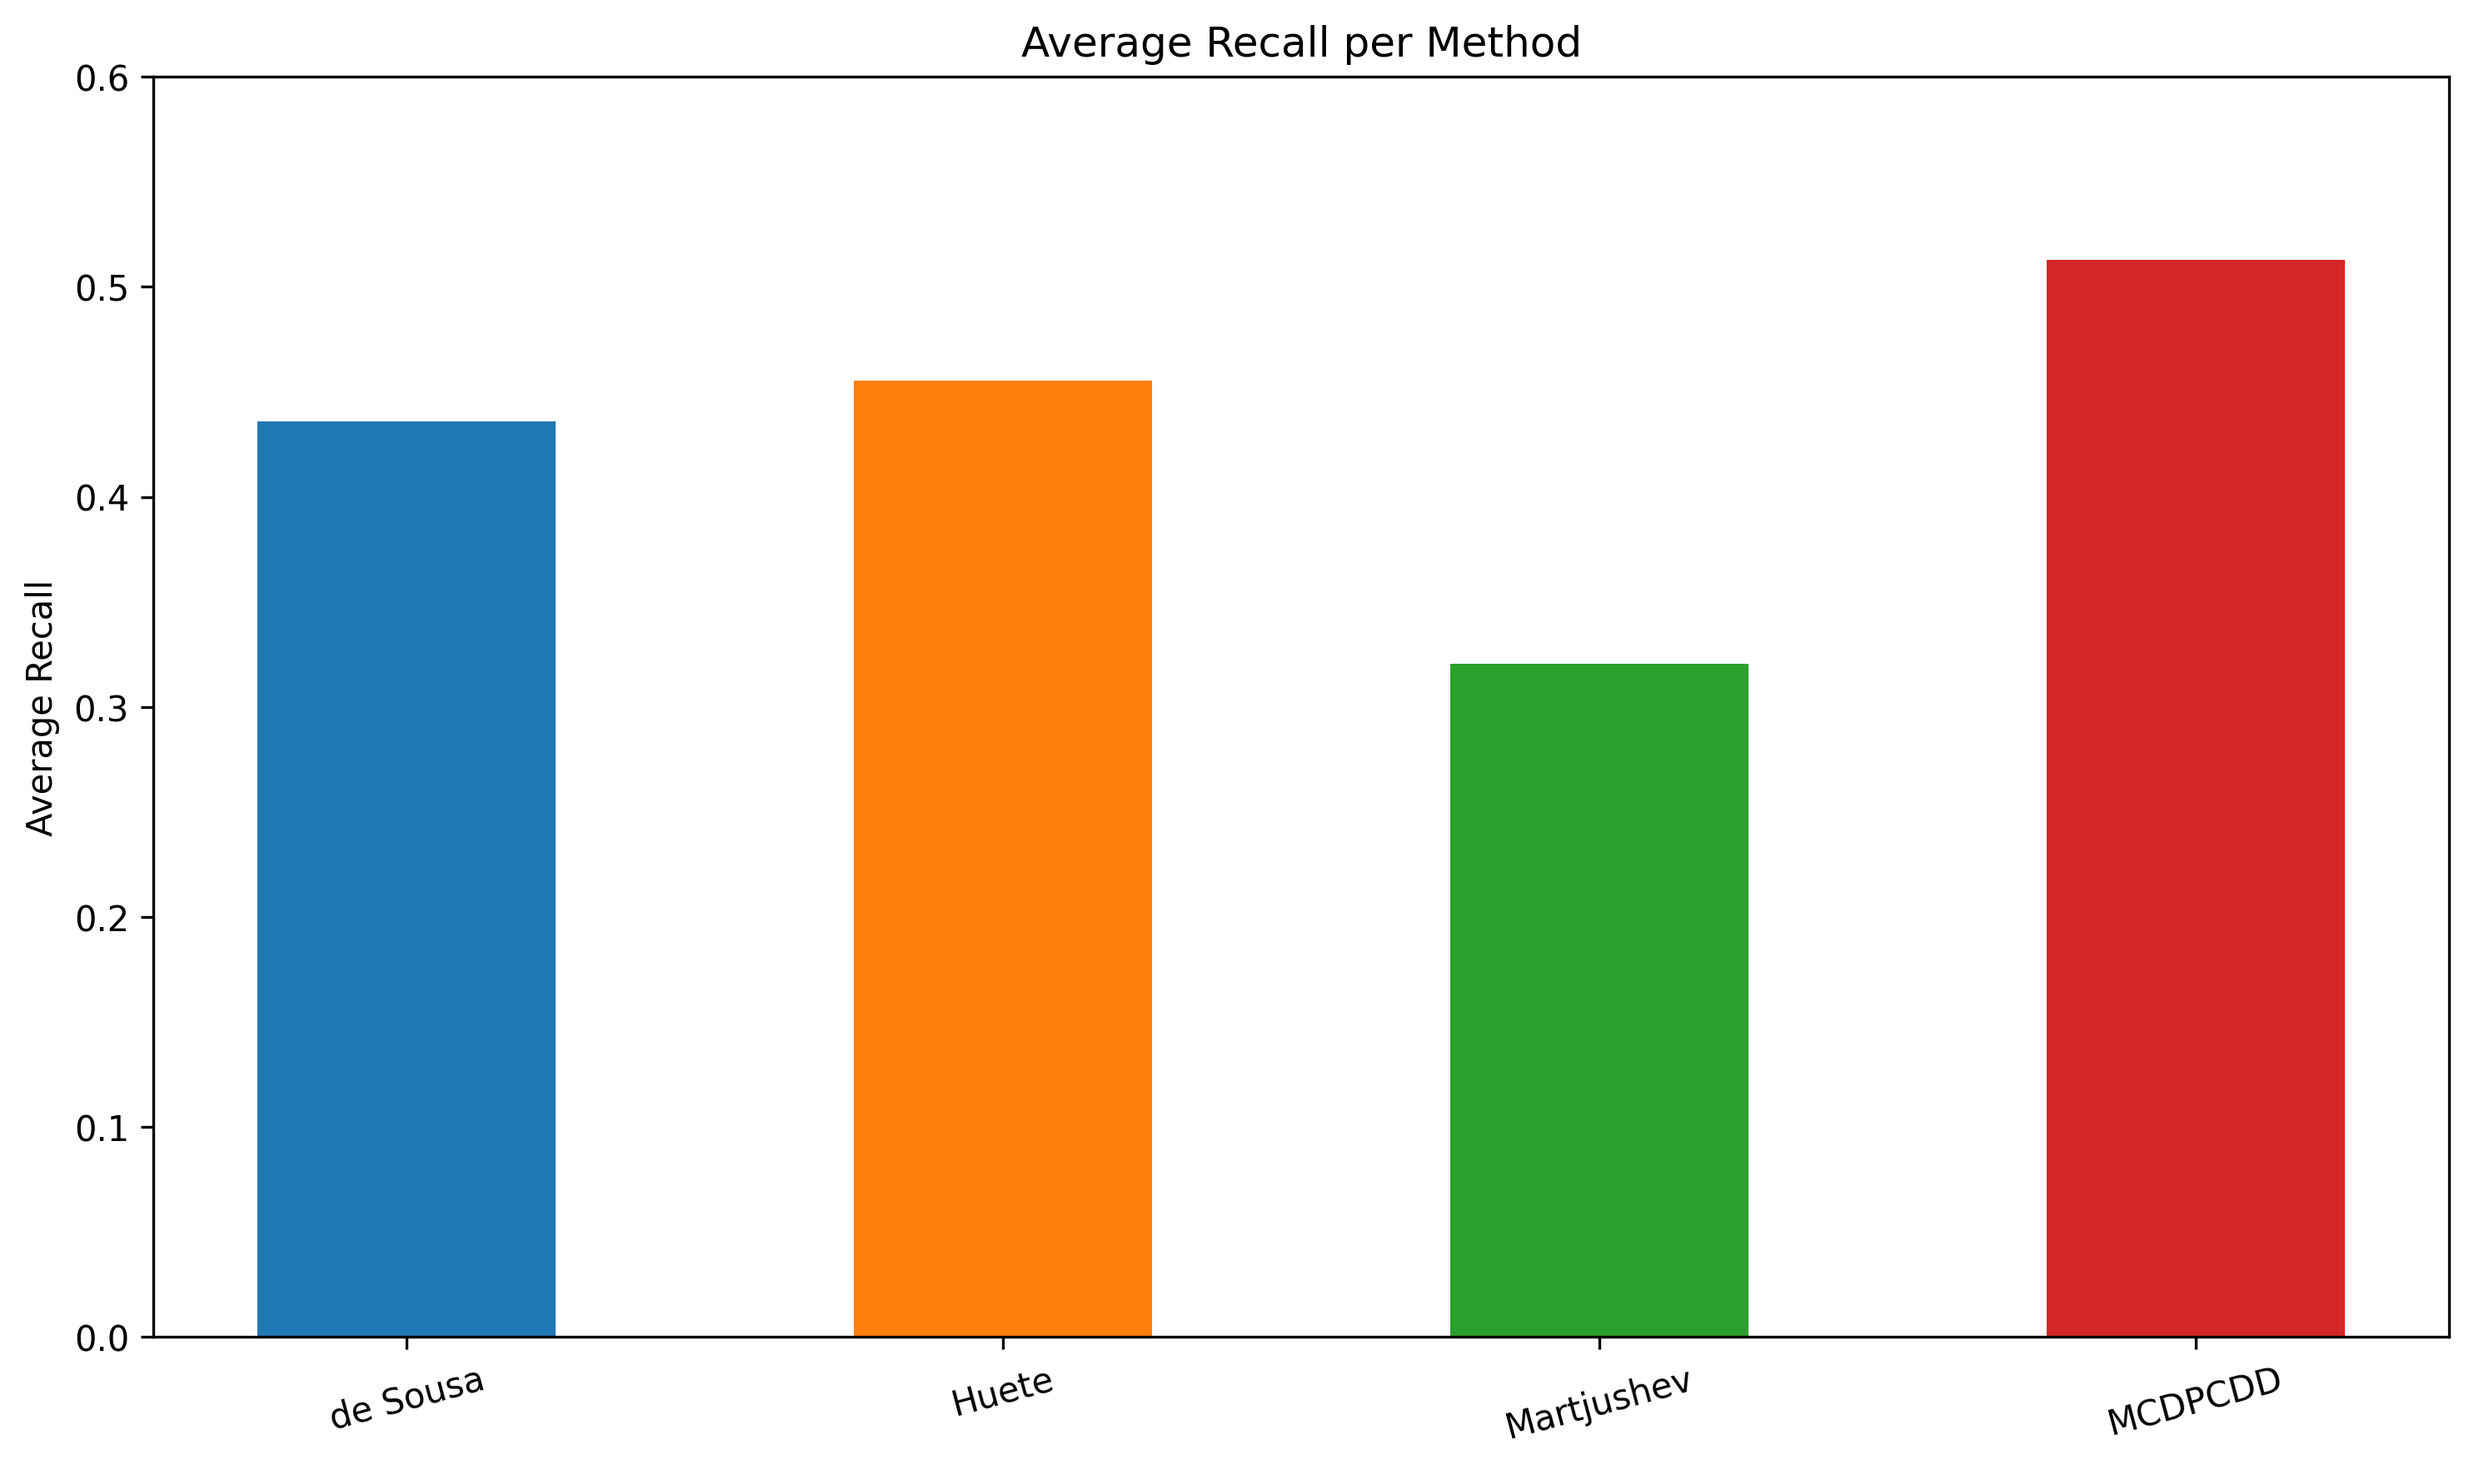
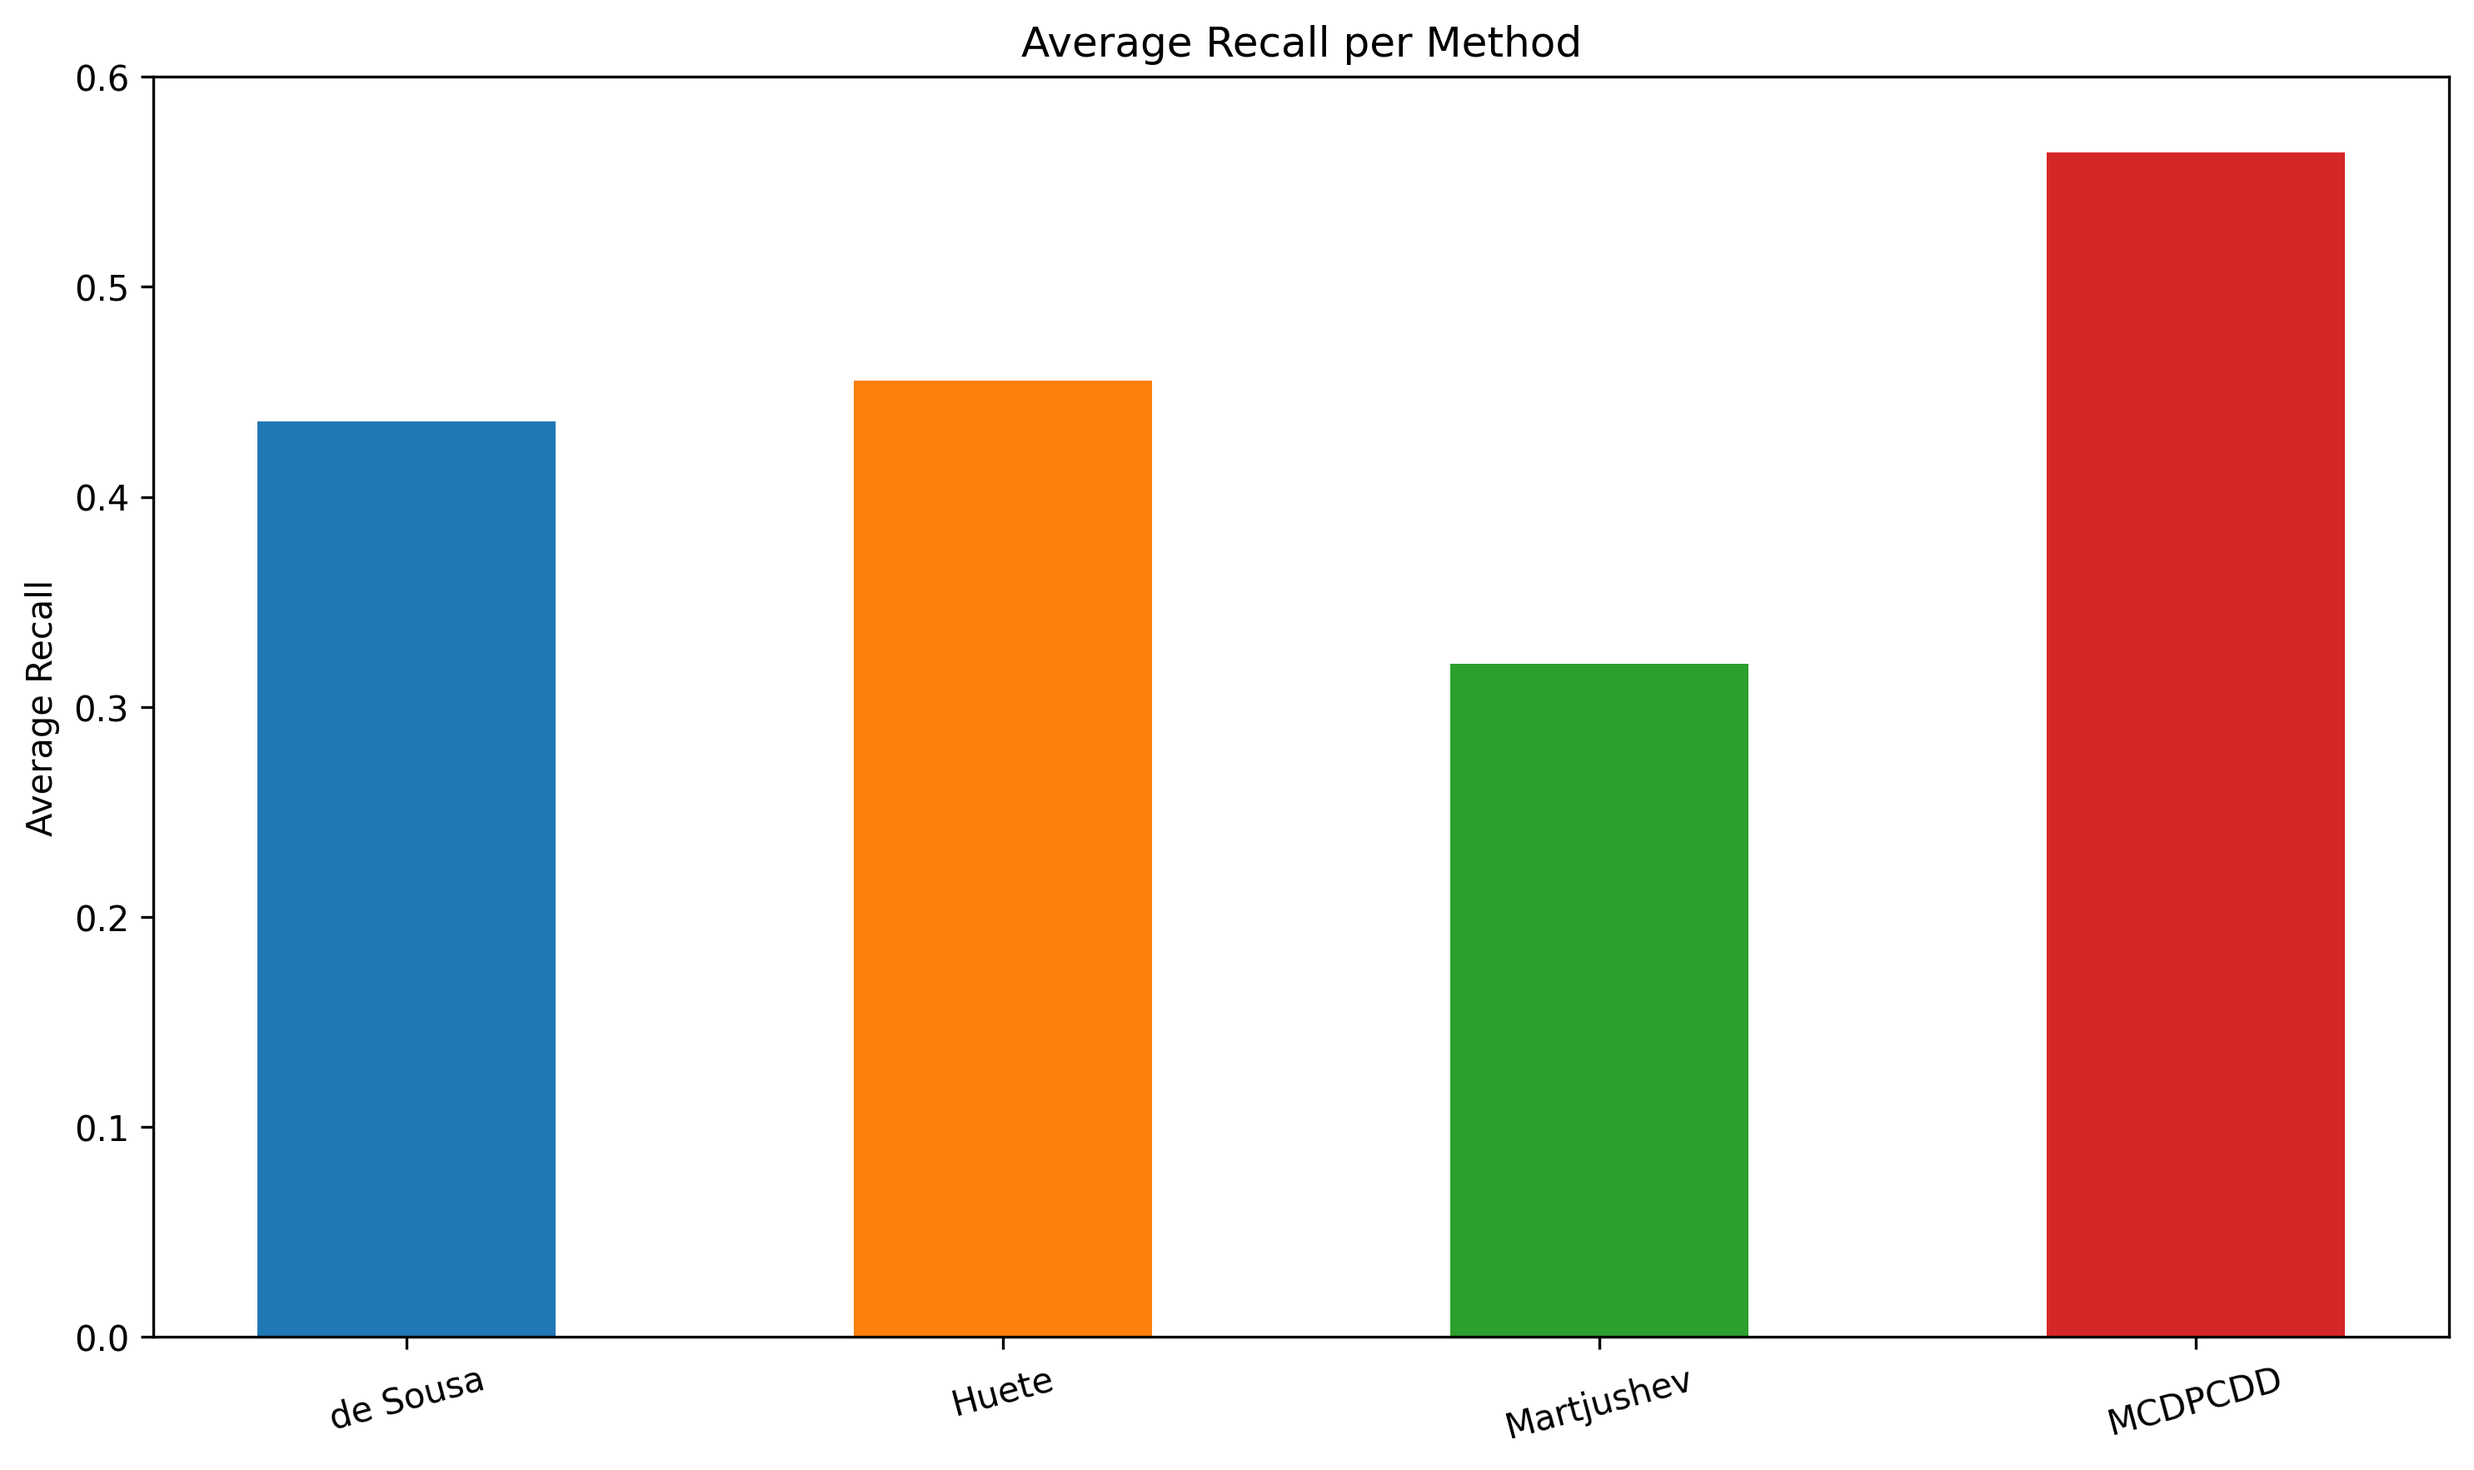
Parameter Sensitivity Experiment
-Added some additional code that allows for easy parameter sensitivity experimentation. Also discovered new slightly better parameter settings for the proposed method

Changed region(s): [[0.8054, 0.0935, 0.9603, 0.187]]

diff --git a/Evaluation/EvaluatePerformance.py b/Evaluation/EvaluatePerformance.py
@@ -2,6 +2,8 @@
 import numpy as np
 import matplotlib.pyplot as plt
 
+import json
+
 #Actual drift locations, coupling the file name with the trace numbers
 actualDriftCoords = {
     "Simple_1.xes" : [1000],
@@ -621,8 +623,11 @@ MCDPCDDCoords = {
     "Difficult_2.xes" : [82, 189, 354, 515, 616, 822],
     "Difficult_3.xes" : [175, 473, 1041, 1286, 1678],
     "Difficult_4.xes" : [850],
-    "BPIC2015Merged.xes" : [6, 15, 28, 39, 47, 58, 67, 79, 89, 101, 110, 124, 132, 142, 151, 159, 174, 183, 192, 205, 215, 228, 237, 247, 261, 270, 301, 309, 335, 346, 362, 389, 415, 461, 491, 518, 556, 585, 608, 629, 644, 662, 679, 695, 716, 727, 746, 771, 787, 802, 824, 843, 862, 883, 906, 918, 931, 944, 960, 982, 1006, 1019, 1034, 1049, 1068, 1082, 1109, 1125, 1150, 1162, 1171, 1189, 1209, 1259, 1281, 1299, 1330, 1343, 1361, 1372, 1387, 1421, 1433, 1451, 1465, 1496, 1511, 1523, 1535, 1548, 1573, 1584, 1596, 1624, 1636, 1647, 1664, 1690, 1706, 1718, 1756, 1778, 1801, 1831, 1873, 1886, 1901, 1916, 1928, 1959, 1976, 1989, 2008, 2026, 2049, 2062, 2128, 2170, 2189, 2201, 2226, 2239, 2258, 2280, 2292, 2316, 2328, 2345, 2357, 2380, 2396, 2408, 2425, 2435, 2472, 2488, 2530, 2547, 2562, 2594, 2618, 2633, 2644, 2664, 2691, 2707, 2720, 2733, 2777, 2812, 2825, 2835, 2845, 2879, 2901, 2919, 2930, 2955, 2988, 3007, 3022, 3035, 3070, 3082, 3103, 3114, 3131, 3168, 3179, 3229, 3237, 3256, 3276, 3314, 3328, 3340, 3351, 3373, 3383, 3405, 3420, 3436, 3459, 3504, 3512, 3552, 3567, 3585, 3600, 3613, 3624, 3655, 3688, 3698, 3720, 3744, 3780, 3804, 3814, 3834, 3851, 3868, 3883, 3897, 3906, 3920, 3947, 3960, 3979, 3990, 3999, 4011, 4036, 4049, 4059, 4074, 4092, 4102, 4120, 4146, 4155, 4172, 4185, 4197, 4206, 4216, 4240, 4259, 4272, 4314, 4323, 4333, 4346, 4357, 4370, 4387, 4398, 4407]
+    "BPIC2015Merged.xes" : [10, 20, 30, 43, 52, 64, 73, 89, 100, 109, 119, 132, 146, 159, 177, 195, 229, 246, 268, 282, 304, 313, 327, 335, 351, 377, 395, 412, 460, 483, 498, 519, 537, 563, 610, 627, 657, 697, 716, 731, 749, 765, 780, 791, 821, 836, 851, 868, 881, 895, 914, 935, 954, 966, 982, 1007, 1020, 1042, 1058, 1073, 1083, 1120, 1140, 1155, 1166, 1188, 1201, 1213, 1245, 1265, 1282, 1306, 1320, 1335, 1347, 1363, 1376, 1395, 1419, 1432, 1455, 1470, 1523, 1539, 1557, 1576, 1592, 1607, 1624, 1637, 1658, 1690, 1710, 1726, 1740, 1753, 1778, 1814, 1861, 1878, 1892, 1905, 1920, 1938, 1951, 1989, 2008, 2028, 2050, 2124, 2143, 2157, 2179, 2193, 2215, 2230, 2245, 2260, 2278, 2294, 2310, 2329, 2354, 2396, 2407, 2419, 2429, 2443, 2475, 2487, 2509, 2529, 2553, 2578, 2594, 2612, 2655, 2667, 2687, 2715, 2735, 2769, 2796, 2815, 2858, 2876, 2919, 2950, 2969, 2991, 3007, 3017, 3037, 3066, 3077, 3095, 3119, 3151, 3171, 3191, 3201, 3212, 3229, 3237, 3256, 3278, 3287, 3308, 3319, 3333, 3344, 3365, 3386, 3396, 3405, 3418, 3430, 3441, 3461, 3477, 3505, 3514, 3526, 3553, 3567, 3597, 3621, 3639, 3655, 3669, 3695, 3706, 3723, 3741, 3755, 3770, 3779, 3792, 3803, 3814, 3834, 3844, 3856, 3866, 3874, 3899, 3923, 3934, 3947, 3956, 3966, 3983, 3993, 4000, 4018, 4034, 4048, 4062, 4082, 4096, 4104, 4119, 4129, 4148, 4169, 4183, 4197, 4219, 4244, 4261, 4272, 4305, 4317, 4326, 4348, 4362, 4371, 4381, 4391, 4401, 4415]
 }
+
+with open("Evaluation/ParamSensResults.json", "r") as f:
+    ParamSens = json.load(f)
 
 
 EvaluatePerformance(
@@ -630,7 +635,7 @@ EvaluatePerformance(
         deSousaCoords,
         hueteCoords,
         martjushevCoords,
-        MCDPCDDCoords],
+        ParamSens],
     method_names=[
         "de Sousa",
         "Huete",

diff --git a/Framework/main.py b/Framework/main.py
@@ -13,6 +13,8 @@ from encoder import Encoder
 from comparator import Comparator
 from detector import Detector
 
+import json
+import subprocess
 
 def main(config_file, seed=1111, device='cpu'):
 
@@ -38,6 +40,7 @@ def main(config_file, seed=1111, device='cpu'):
         trace_map[prefix] = tf
 
     # ---------------- LOOP OVER DATASETS ----------------
+    evaluation_results = {}
     for df in dataset_files:
 
         prefix = df.replace('.npy', '')
@@ -166,6 +169,34 @@ def main(config_file, seed=1111, device='cpu'):
 
         print(f"Detected drift trace IDs for {prefix}: {drift_Trace_IDs}")
 
+        # Convert dataset filename to evaluation filename
+        evaluation_results[f"{prefix}.xes"] = drift_Trace_IDs
+
+    # ==========================================================
+    # Save evaluation results
+    # ==========================================================
+
+    os.makedirs("Evaluation", exist_ok=True)
+
+    # Keep BPIC2015 fixed because it is not rerun
+    if "BPIC2015Merged.xes" not in evaluation_results:
+        evaluation_results["BPIC2015Merged.xes"] = [6, 15, 28, 39, 47, 58, 67, 79, 89, 101, 110, 124, 132, 142, 151, 159, 174, 183, 192, 205, 215, 228, 237, 247, 261, 270, 301, 309, 335, 346, 362, 389, 415, 461, 491, 518, 556, 585, 608, 629, 644, 662, 679, 695, 716, 727, 746, 771, 787, 802, 824, 843, 862, 883, 906, 918, 931, 944, 960, 982, 1006, 1019, 1034, 1049, 1068, 1082, 1109, 1125, 1150, 1162, 1171, 1189, 1209, 1259, 1281, 1299, 1330, 1343, 1361, 1372, 1387, 1421, 1433, 1451, 1465, 1496, 1511, 1523, 1535, 1548, 1573, 1584, 1596, 1624, 1636, 1647, 1664, 1690, 1706, 1718, 1756, 1778, 1801, 1831, 1873, 1886, 1901, 1916, 1928, 1959, 1976, 1989, 2008, 2026, 2049, 2062, 2128, 2170, 2189, 2201, 2226, 2239, 2258, 2280, 2292, 2316, 2328, 2345, 2357, 2380, 2396, 2408, 2425, 2435, 2472, 2488, 2530, 2547, 2562, 2594, 2618, 2633, 2644, 2664, 2691, 2707, 2720, 2733, 2777, 2812, 2825, 2835, 2845, 2879, 2901, 2919, 2930, 2955, 2988, 3007, 3022, 3035, 3070, 3082, 3103, 3114, 3131, 3168, 3179, 3229, 3237, 3256, 3276, 3314, 3328, 3340, 3351, 3373, 3383, 3405, 3420, 3436, 3459, 3504, 3512, 3552, 3567, 3585, 3600, 3613, 3624, 3655, 3688, 3698, 3720, 3744, 3780, 3804, 3814, 3834, 3851, 3868, 3883, 3897, 3906, 3920, 3947, 3960, 3979, 3990, 3999, 4011, 4036, 4049, 4059, 4074, 4092, 4102, 4120, 4146, 4155, 4172, 4185, 4197, 4206, 4216, 4240, 4259, 4272, 4314, 4323, 4333, 4346, 4357, 4370, 4387, 4398, 4407]
+
+    with open("Evaluation/ParamSensResults.json", "w") as f:
+        json.dump(evaluation_results, f, indent=4)
+
+    print("\nSaved evaluation results to Evaluation/ParamSensResults.json")
+
+    # ==========================================================
+    # Automatically run evaluation
+    # ==========================================================
+
+    print("\nLaunching evaluation...\n")
+
+    subprocess.run(
+        ["python", "Evaluation/EvaluatePerformance.py"],
+        check=True
+    )
 
 if __name__ == "__main__":
     parser = argparse.ArgumentParser()
